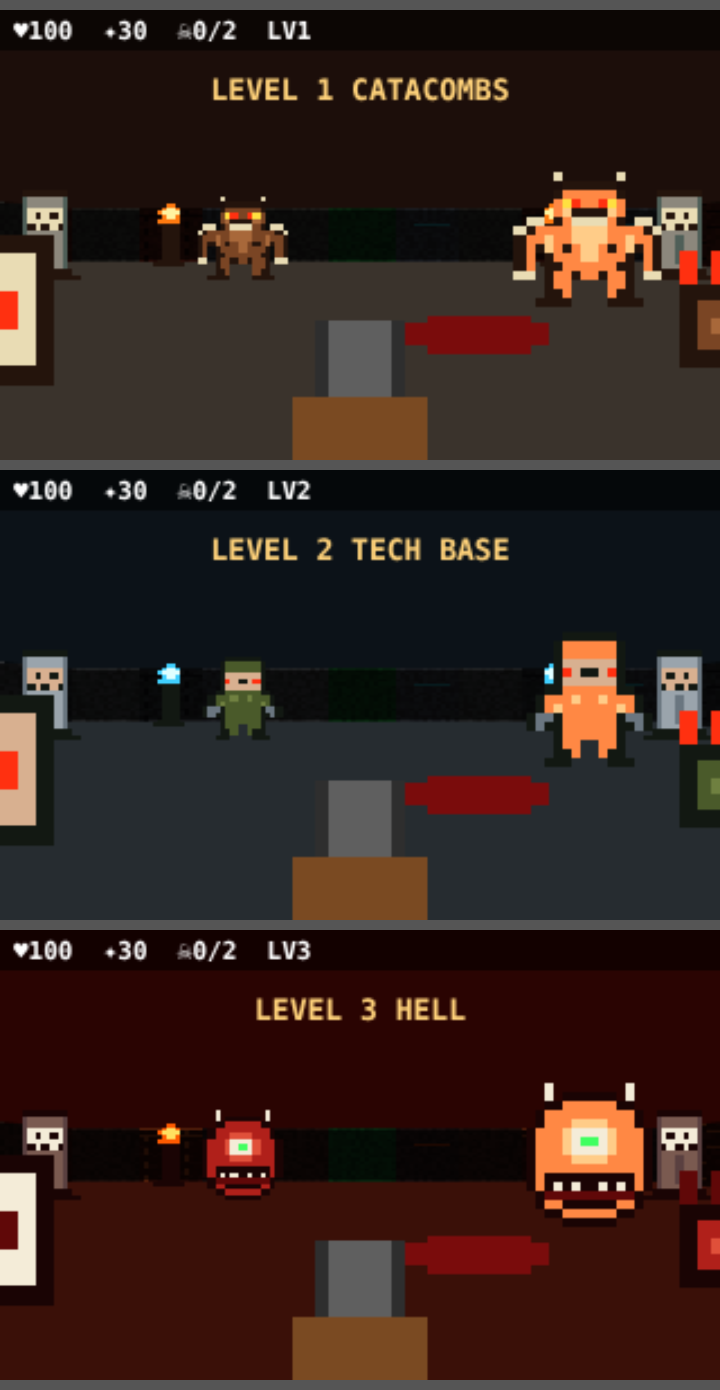
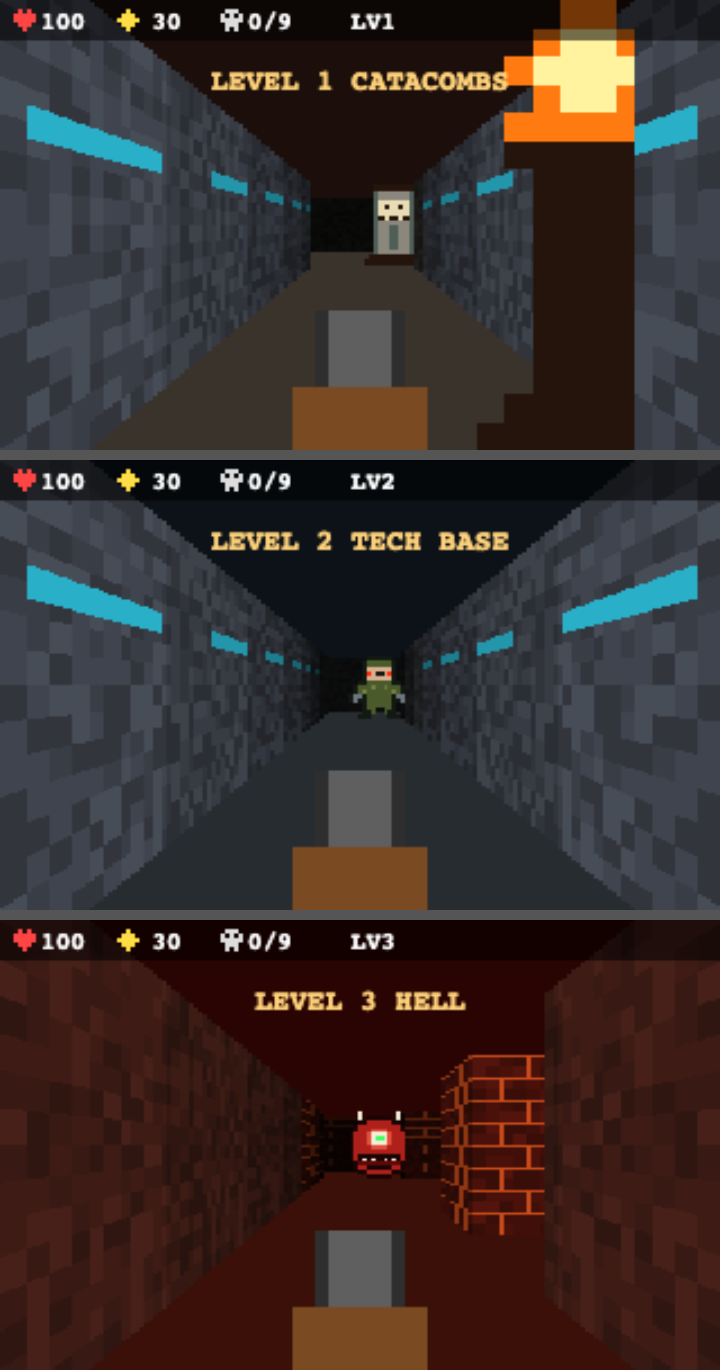
...

diff --git a/widgets/doom.html b/widgets/doom.html
@@ -1,1 +1,1 @@
-<!doctype html><html lang="en"><head><meta charset="utf-8"><style>html,body{margin:0;padding-bottom:env(safe-area-inset-bottom);background:#1a0d08;color:#fff;font-family:system-ui,sans-serif;user-select:none}#c{display:block;width:100%;background:#000;touch-action:none}#k{margin:0;width:100%;border-collapse:separate;border-spacing:6px;background:#1a0d08;padding-left:16px;box-sizing:border-box;touch-action:none}#k td{width:62px;height:76px;padding:0;border:0;background:#3b2a20;color:#e8c9a8;text-align:center;vertical-align:middle;font-size:32px;font-weight:bold;border-radius:14px}#k td.e{background:none}#k td.f{background:#8a1c10;color:#ffd27a;font-size:20px}#k td.on{background:#7a5a44;color:#fff}#k td.f.on{background:#d13a22}</style></head><body><canvas id="c" width="320" height="200"></canvas><table id="k"><tr><td class="e"></td><td data-k="f">▲</td><td class="e"></td><td data-k="l">⟲</td><td data-k="r">⟳</td></tr><tr><td data-k="L">◀</td><td data-k="b">▼</td><td data-k="R">▶</td><td data-k="s" class="f" colspan="2">FIRE</td></tr></table><script>var t=document.getElementById("c"),n=t.getContext("2d"),r=320,e=200,a=Math.random;function i(t,n){var r=document.createElement("canvas");return r.width=t,r.height=n,r}function f(t,n,r,e,a,i){t.fillStyle=n,t.fillRect(r,e,a,i)}var o,l,c,u,h=i(256,64),v=h.getContext("2d"),s=i(512,64),d=s.getContext("2d"),m=window.TelegramWidget;function p(t,n){f(v,n,t,0,64,64);for(var r=0;r<256;r++)f(v,"rgba(0,0,0,."+(4*a()|0)+")",t+r%16*4,4*(r>>4),4,4)}function g(t,n,r){for(var e=0;n&&e<16;e++){var a=n.substr(8*e,8);a+=a.split("").reverse().join("");for(var i=0;i<16;){for(var o=a[i],c=i;a[c]==o;)c++;"."!=o&&f(d,r&&r[o]||"#"+l.substr(6*(o.charCodeAt(0)-97),6),t+4*i,4*e,4*(c-i),4),i=c}}}function y(t){o=(t||"").split("|"),l=o[0],c=(o[7]||"").split(",").map(function(t){return"#"+t}),u=(o[8]||"2,1,6").split(",").map(Number),p(0,c[2]);for(var n=0;n<8;n++){f(v,c[3],0,8*n,64,1);for(var r=0;r<4;r++)f(v,c[3],(16*r+n%2*8)%64,8*n,1,8)}p(64,c[4]),f(v,c[5],84,18,36,4),p(128,c[6]),p(192,c[7]),d.clearRect(0,0,512,64),g(0,o[1]),g(64,o[1],{b:"#f84",c:"#fc8"}),f(d,"#7a0c0c",140,56,40,6),f(d,"#7a0c0c",146,54,28,10),g(192,o[5]),g(256,o[6]),g(320,o[2]),g(384,o[3]),g(448,o[4])}var b,x,M,E,I,w,A,L,S,R,D,T,k,q,C=1,O=[],B={},F=0,N="",Y=0,P=0,V=0,X=0;function j(){x=Math.min(11+2*C,25),b=[];for(var t=0;t<x*x;t++)b[t]=1+(t%x/6+t/x/6|0)%3;var n=[[1,1]];for(b[x+1]=0;n.length;){var r=n[n.length-1],e=[[2,0],[-2,0],[0,2],[0,-2]].filter(function(t){var n=r[0]+t[0],e=r[1]+t[1];return n>0&&e>0&&n<x-1&&e<x-1&&b[e*x+n]});if(e.length){var i=e[a()*e.length|0];b[(r[1]+i[1]/2)*x+r[0]+i[0]/2]=0,b[(r[1]+i[1])*x+r[0]+i[0]]=0,n.push([r[0]+i[0],r[1]+i[1]])}else n.pop()}for(t=0;t<x*x/10;t++){var f=1+(a()*(x-2)|0),l=1+(a()*(x-2)|0);f%2!=l%2&&(b[l*x+f]=0)}var c=[];for(t=0;t<2+C/2;t++){f=4+2*(a()*(x-7)/2|0),l=4+2*(a()*(x-7)/2|0),c.push([f,l]);for(var h=0;h<9;h++)b[(l-1+h/3|0)*x+f-1+h%3]=0}var v,s=[1,-1,x,-x],d=[],m=[x+1],p=x+1;for(d[x+1]=0;m.length;)r=m.shift(),p=r,s.forEach(function(t){b[r+t]||null!=d[r+t]||(d[r+t]=d[r]+1,m.push(r+t))});for(s.some(function(t){if(b[p+t])return b[p+t]=4,1}),M=E=1.5,I=1,w=0,A=0,L=.66,k=[],T=3+2*C,t=0;t<T+4;t++){do{r=a()*x*x|0}while(b[r]||d[r]<4);k.push({x:r%x+.5,y:.5+(r/x|0),t:t<T?0:t<T+2?3:4,h:u[0]+C/3|0,cd:0})}function g(t,n,r,e){k.push({x:t%x+.5+n,y:.5+(t/x|0)+r,t:e})}for(c.forEach(function(t){for(var n=0;n<4;n++){var r=1&n?1:-1,e=2&n?1:-1;g((t[1]+e)*x+t[0]+r,.35*r,.35*e,7)}}),t=0;t<x*x;t++)if(!b[t]&&t!=p&&t!=x+1){var y=s.filter(function(n){return b[t+n]}),S=a(),R=y[0];y.length>2?S<.6&&g(t,0,0,5):y.length&&S<.15&&g(t,.42*((1==R)-(-1==R)),.42*((R==x)-(R==-x)),6)}D=0,v="LEVEL "+C+" "+(o[9]||""),N=v,Y=2.5}function G(t,n){return b[(0|n)*x+(0|t)]}function U(t,n){return G(t,n)||k.some(function(r){return(5==r.t||7==r.t)&&Math.abs(r.x-t)<.3&&Math.abs(r.y-n)<.3})}function W(){if(!(F>2)){if(1!=F)return C=1,S=100,R=30,y(m&&m.publicData),j(),void(F=1);if(!(R<=0)){R--,P=.12;var t=null;k.forEach(function(n){!n.t&&n.h>0&&n.ty>0&&Math.abs(n.sx-80)<n.w/4&&n.ty<O[80]&&(!t||n.ty<t.ty)&&(t=n)}),t&&(t.h--,t.fr=.2,t.h<=0&&D++)}}}var z=document.getElementById("k"),H=[].slice.call(z.querySelectorAll("td[data-k]")),J=[],K={},Q=0;function Z(t){for(var n=0;n<J.length;n++){var r=J[n];if(t.clientX>=r[0]&&t.clientX<r[2]&&t.clientY>=r[1]&&t.clientY<r[3])return r[4]}return""}function $(){var t={};for(var n in K)K[n]&&(t[K[n]]=1);t.s&&!B.s&&Q<=0&&(W(),Q=.3),B=t,H.forEach(function(t){var n=t.getAttribute("data-k");t.className=("s"==n?"f":"")+(B[n]?" on":"")})}z.addEventListener("pointerdown",function(t){J=H.map(function(t){var n=t.getBoundingClientRect();return[n.left,n.top,n.right,n.bottom,t.getAttribute("data-k")]}),K[t.pointerId]=Z(t),$()}),document.addEventListener("pointermove",function(t){if(t.pointerId in K){var n=Z(t);n!=K[t.pointerId]&&(K[t.pointerId]=n,$())}}),["pointerup","pointercancel"].forEach(function(t){document.addEventListener(t,function(t){delete K[t.pointerId],$()})}),t.addEventListener("click",W),y(m&&m.publicData),j(),F=Y=0,requestAnimationFrame(function t(i){var o=Math.min(.05,(i-(q||i))/1e3);q=i,1==F&&function(t){var n=((B.f?1:0)-(B.b?1:0))*t*3,r=((B.R?1:0)-(B.L?1:0))*t*2.5,e=((B.r?1:0)-(B.l?1:0))*t*2.4;if(e){var i=Math.cos(e),f=Math.sin(e),o=I;I=I*i-w*f,w=o*f+w*i,o=A,A=A*i-L*f,L=o*f+L*i}if(n||r){var l=I*n-w*r,c=w*n+I*r,h=M+l+(l>0?.25:-.25),v=E+c+(c>0?.25:-.25);if(4==G(h,E)||4==G(M,v)){C++,S=Math.min(100,S+25),F=3;var s=function(t){t&&t.result&&y(t.result),j(),F=1};return void(m&&m.request?m.request("lv:"+C).then(s,s):s())}U(h,E)||(M+=l),U(M,v)||(E+=c),X+=9*t}k.forEach(function(n){if(n.t)Math.hypot(n.x-M,n.y-E)<.6&&(3==n.t&&S<100&&(S=Math.min(100,S+30),n.t=9),4==n.t&&(R+=15,n.t=9));else if(!(n.h<=0)){n.fr-=t,n.cd-=t;var r=M-n.x,e=E-n.y,i=Math.hypot(r,e);if(n.a)if(i>.8){var f=t*(u[1]+.05*C)/i,o=n.x+r*f,l=n.y+e*f;G(o,n.y)||(n.x=o),G(n.x,l)||(n.y=l)}else n.cd<=0&&(S-=u[2]+6*a()|0,n.cd=.9,V=.3,n.fr=.25,S<=0&&(S=0,F=2))}}),Q-=t,B.s&&Q<=0&&(W(),Q=.3),P-=t,V-=t,Y-=t}(o),function(){n.imageSmoothingEnabled=!1,f(n,c[0],0,0,r,100),f(n,c[1],0,100,r,100);for(var t=0;t<160;t++){for(var a,i=2*t/160-1,o=I+A*i,l=w+L*i,u=0|M,v=0|E,d=Math.abs(1/o),m=Math.abs(1/l),p=o<0?-1:1,g=l<0?-1:1,y=(o<0?M-u:u+1-M)*d,q=(l<0?E-v:v+1-E)*m,B=0;!B;)y<q?(y+=d,u+=p,a=0):(q+=m,v+=g,a=1),B=b[v*x+u];var j=a?q-m:y-d,G=a?M+j*o:E+j*l,U=64*(G-Math.floor(G))|0,W=e/j;O[t]=j,n.drawImage(h,64*(B-1)+U,0,1,64,2*t,(e-W)/2,2,W),n.fillStyle="rgba(0,0,0,"+Math.min(.88,j/9+.18*a)+")",n.fillRect(2*t,(e-W)/2,2,W)}var z=1/(A*w-I*L);k.forEach(function(t){var n=t.x-M,r=t.y-E;t.tx=z*(w*n-I*r),t.ty=z*(-L*n+A*r),t.d=n*n+r*r}),k.slice().sort(function(t,n){return n.d-t.d}).forEach(function(t){if(!(9==t.t||t.ty<.2)){var r=e/t.ty,a=r/2,i=80*(1+t.tx/t.ty);t.sx=i,t.w=a;for(var f=t.t?t.t:t.h<=0?2:t.fr>0?1:0,o=Math.max(0,i-a/2|0);o<Math.min(160,i+a/2);o++)t.ty<O[o]&&(t.a=t.a||t.ty<9,n.drawImage(s,64*f+(64*(o-i+a/2)/a|0),0,1,64,2*o,(e-r)/2,2,r))}});var H=5*Math.sin(X),J=140+H,K=138+Math.abs(H)+(P>0?8:0);P>0&&(n.fillStyle="#ffd23f",n.beginPath(),n.arc(160+H,K-6,20,0,7),n.fill()),f(n,"#2e2e2e",J,K,40,62),f(n,"#5f5f5f",J+6,K,28,52),f(n,"#7a4a22",J-10,K+34,60,28),V>0&&(n.fillStyle="rgba(200,0,0,"+V+")",n.fillRect(0,0,r,e)),F&&(f(n,"rgba(0,0,0,.55)",0,0,r,18),n.fillStyle=S>30?"#fff":"#f55",n.font="bold 11px monospace",n.textAlign="left",n.fillText("♥"+S+"  ✦"+R+"  ☠"+D+"/"+T+"  LV"+C,6,13)),n.textAlign="center",Y>0&&(n.fillStyle="#ffd27a",n.font="bold 13px monospace",n.fillText(N,160,40)),1!=F&&(f(n,"rgba(0,0,0,.7)",0,0,r,e),n.fillStyle=F?"#f33":"#e8c9a8",n.font="bold 26px monospace",n.fillText(F>2?"LOADING":F?"YOU DIED":"TIPO DOOM",160,92),n.fillText(F>2?"":"press FIRE",160,120))}(),requestAnimationFrame(t)});</script></body></html>
+<!doctype html><html lang="en"><head><meta charset="utf-8"><style>html,body{margin:0;padding-bottom:env(safe-area-inset-bottom);background:#1a0d08;color:#fff;font-family:system-ui,sans-serif;user-select:none}#c{display:block;width:100%;background:#000;touch-action:none}#k{margin:0;width:100%;border-collapse:separate;border-spacing:6px;background:#1a0d08;padding-left:16px;box-sizing:border-box;touch-action:none}#k td{width:62px;height:76px;padding:0;border:0;background:#3b2a20;color:#e8c9a8;text-align:center;vertical-align:middle;font-size:32px;font-weight:bold;border-radius:14px}#k td.e{background:none}#k td.f{background:#8a1c10;color:#ffd27a;font-size:20px}#k td.on{background:#7a5a44;color:#fff}#k td.f.on{background:#d13a22}</style></head><body><canvas id="c" width="320" height="200"></canvas><table id="k"><tr><td class="e"></td><td data-k="f">▲</td><td class="e"></td><td data-k="l">⟲</td><td data-k="r">⟳</td></tr><tr><td data-k="L">◀</td><td data-k="b">▼</td><td data-k="R">▶</td><td data-k="s" class="f" colspan="2">FIRE</td></tr></table><script>var t=document.getElementById("c"),n=t.getContext("2d"),r=320,e=200,a=Math.random;function f(t,n){var r=document.createElement("canvas");return r.width=t,r.height=n,r}function o(t,n,r,e,a,f){t.fillStyle=n,t.fillRect(r,e,a,f)}var i,c,l,u,h=f(256,64),d=h.getContext("2d"),v=f(256,576),s=v.getContext("2d"),m=f(512,64),p=m.getContext("2d"),g=window.TelegramWidget;function y(t,n){o(d,n,t,0,64,64);for(var r=0;r<256;r++)o(d,"rgba(0,0,0,."+(4*a()|0)+")",t+r%16*4,4*(r>>4),4,4)}function b(t,n,r){for(var e=0;n&&e<16;e++){var a=n.substr(8*e,8);a+=a.split("").reverse().join("");for(var f=0;f<16;){for(var i=a[f],l=f;a[l]==i;)l++;"."!=i&&o(p,r&&r[i]||"#"+c.substr(6*(i.charCodeAt(0)-97),6),t+4*f,4*e,4*(l-f),4),f=l}}}function x(t){i=(t||"").split("|"),c=i[0],l=(i[7]||"").split(",").map(function(t){return"#"+t}),u=(i[8]||"").split(",").map(Number),y(0,l[2]);for(var n=0;n<8;n++){o(d,l[3],0,8*n,64,1);for(var r=0;r<4;r++)o(d,l[3],(16*r+n%2*8)%64,8*n,1,8)}for(y(64,l[4]),o(d,l[5],84,18,36,4),y(128,l[6]),y(192,l[7]),n=0;n<9;n++)s.drawImage(h,0,64*n),o(s,"rgba(0,0,0,."+11*n+")",0,64*n,256,64);p.clearRect(0,0,512,64),[4685802,4685252,10976942].forEach(function(t,n){for(var r=0;r<25;r++)t>>r&1&&o(p,["#f44","#fd4","#ddd"][n],128+10*n+r%5*2,2*(r/5|0),2,2)}),b(0,i[1]),b(64,i[1],{b:"#f84",c:"#fc8"}),o(p,"#7a0c0c",140,56,40,6),o(p,"#7a0c0c",146,54,28,10),b(192,i[5]),b(256,i[6]),b(320,i[2]),b(384,i[3]),b(448,i[4])}var E,M,I,w,L,A,S,C,D,T,k,q,O,R,B=1,F=[],N={},Y=0,P="",V=0,X=0,j=0,G=0;function U(){M=Math.min(11+2*B,25),E=[];for(var t=0;t<M*M;t++)E[t]=1+(t%M/6+t/M/6|0)%3;var n=[[1,1]];for(E[M+1]=0;n.length;){var r=n[n.length-1],e=[[2,0],[-2,0],[0,2],[0,-2]].filter(function(t){var n=r[0]+t[0],e=r[1]+t[1];return n>0&&e>0&&n<M-1&&e<M-1&&E[e*M+n]});if(e.length){var f=e[a()*e.length|0];E[(r[1]+f[1]/2)*M+r[0]+f[0]/2]=0,E[(r[1]+f[1])*M+r[0]+f[0]]=0,n.push([r[0]+f[0],r[1]+f[1]])}else n.pop()}for(t=0;t<M*M/10;t++){var o=1+(a()*(M-2)|0),c=1+(a()*(M-2)|0);o%2!=c%2&&(E[c*M+o]=0)}var l=[];for(t=0;t<2+B/2;t++){o=4+2*(a()*(M-7)/2|0),c=4+2*(a()*(M-7)/2|0),l.push([o,c]);for(var h=0;h<9;h++)E[(c-1+h/3|0)*M+o-1+h%3]=0}var d,v=[1,-1,M,-M],s=[],m=[M+1],p=M+1;for(s[M+1]=0;m.length;)r=m.shift(),p=r,v.forEach(function(t){E[r+t]||null!=s[r+t]||(s[r+t]=s[r]+1,m.push(r+t))});for(v.some(function(t){if(E[p+t])return E[p+t]=4,1}),I=w=1.5,L=1,A=0,S=0,C=.66,O=[],q=3+2*B,t=0;t<q+4;t++){do{r=a()*M*M|0}while(E[r]||s[r]<4);O.push({x:r%M+.5,y:.5+(r/M|0),t:t<q?0:t<q+2?3:4,h:u[0]+B/3|0,cd:0})}function g(t,n,r,e){O.push({x:t%M+.5+n,y:.5+(t/M|0)+r,t:e})}for(l.forEach(function(t){for(var n=0;n<4;n++){var r=1&n?1:-1,e=2&n?1:-1;g((t[1]+e)*M+t[0]+r,.35*r,.35*e,7)}}),t=0;t<M*M;t++)if(!E[t]&&t!=p&&t!=M+1){var y=v.filter(function(n){return E[t+n]}),b=a(),x=y[0];y.length>2?b<.6&&g(t,0,0,5):y.length&&b<.15&&g(t,.42*((1==x)-(-1==x)),.42*((x==M)-(x==-M)),6)}k=0,d="LEVEL "+B+" "+(i[9]||""),P=d,V=2.5}function W(t,n){return E[(0|n)*M+(0|t)]}function z(t,n){return W(t,n)||O.some(function(r){return(5==r.t||7==r.t)&&Math.abs(r.x-t)<.3&&Math.abs(r.y-n)<.3})}function H(){if(!(Y>2)){if(1!=Y)return B=1,D=100,T=30,x(g&&g.publicData),U(),void(Y=1);if(!(T<=0)){T--,X=.12;var t=null;O.forEach(function(n){!n.t&&n.h>0&&n.ty>0&&Math.abs(n.sx-80)<n.w/4&&n.ty<F[80]&&(!t||n.ty<t.ty)&&(t=n)}),t&&(t.h--,t.fr=.2,t.h<=0&&k++)}}}var J=document.getElementById("k"),K=[].slice.call(J.querySelectorAll("td[data-k]")),Q=[],Z={},$=0;function _(t){for(var n=0;n<Q.length;n++){var r=Q[n];if(t.clientX>=r[0]&&t.clientX<r[2]&&t.clientY>=r[1]&&t.clientY<r[3])return r[4]}return""}function tt(){var t={};for(var n in Z)Z[n]&&(t[Z[n]]=1);t.s&&!N.s&&$<=0&&(H(),$=.3),N=t,K.forEach(function(t){var n=t.getAttribute("data-k");t.className=("s"==n?"f":"")+(N[n]?" on":"")})}J.addEventListener("pointerdown",function(t){Q=K.map(function(t){var n=t.getBoundingClientRect();return[n.left,n.top,n.right,n.bottom,t.getAttribute("data-k")]}),Z[t.pointerId]=_(t),tt()}),document.addEventListener("pointermove",function(t){if(t.pointerId in Z){var n=_(t);n!=Z[t.pointerId]&&(Z[t.pointerId]=n,tt())}}),["pointerup","pointercancel"].forEach(function(t){document.addEventListener(t,function(t){delete Z[t.pointerId],tt()})}),t.addEventListener("click",H),n.imageSmoothingEnabled=!1,n.textAlign="center",x(g&&g.publicData),U(),Y=V=0,requestAnimationFrame(function t(f){if(requestAnimationFrame(t),!(f-R<15)){var i=Math.min(.05,(f-(R||f))/1e3);R=f,1==Y&&function(t){var n=((N.f?1:0)-(N.b?1:0))*t*3,r=((N.R?1:0)-(N.L?1:0))*t*2.5,e=((N.r?1:0)-(N.l?1:0))*t*2.4;if(e){var f=Math.cos(e),o=Math.sin(e),i=L;L=L*f-A*o,A=i*o+A*f,i=S,S=S*f-C*o,C=i*o+C*f}if(n||r){var c=L*n-A*r,l=A*n+L*r,h=I+c+(c>0?.25:-.25),d=w+l+(l>0?.25:-.25);if(4==W(h,w)||4==W(I,d)){B++,D=Math.min(100,D+25),Y=3;var v=function(t){t&&t.result&&x(t.result),U(),Y=1};return void(g&&g.request?g.request("lv:"+B).then(v,v):v())}z(h,w)||(I+=c),z(I,d)||(w+=l),G+=9*t}O.forEach(function(n){if(n.t)Math.hypot(n.x-I,n.y-w)<.6&&(3==n.t&&D<100&&(D=Math.min(100,D+30),n.t=9),4==n.t&&(T+=15,n.t=9));else if(!(n.h<=0)){n.fr-=t,n.cd-=t;var r=I-n.x,e=w-n.y,f=Math.hypot(r,e);if(n.a)if(f>.8){var o=t*(u[1]+.05*B)/f,i=n.x+r*o,c=n.y+e*o;W(i,n.y)||(n.x=i),W(n.x,c)||(n.y=c)}else n.cd<=0&&(D-=u[2]+6*a()|0,n.cd=.9,j=.3,n.fr=.25,D<=0&&(D=0,Y=2))}}),$-=t,N.s&&$<=0&&(H(),$=.3),X-=t,j-=t,V-=t}(i),function(){o(n,l[0],0,0,r,100),o(n,l[1],0,100,r,100);for(var t=0;t<160;t++){for(var a,f=2*t/160-1,i=L+S*f,c=A+C*f,u=0|I,h=0|w,d=Math.abs(1/i),s=Math.abs(1/c),p=i<0?-1:1,g=c<0?-1:1,y=(i<0?I-u:u+1-I)*d,b=(c<0?w-h:h+1-w)*s,x=0;!x;)y<b?(y+=d,u+=p,a=0):(b+=s,h+=g,a=1),x=E[h*M+u];var R=a?b-s:y-d,N=a?I+R*i:w+R*c,U=64*(N-Math.floor(N))|0,W=e/R;F[t]=R,n.drawImage(v,64*(x-1)+U,64*Math.min(8,R+1.6*a|0),1,64,2*t,(e-W)/2,2,W)}var z=1/(S*A-L*C);O.forEach(function(t){var n=t.x-I,r=t.y-w;t.tx=z*(A*n-L*r),t.ty=z*(-C*n+S*r),t.d=n*n+r*r}),O.slice().sort(function(t,n){return n.d-t.d}).forEach(function(t){if(!(9==t.t||t.ty<.2)){var r=e/t.ty,a=r/2,f=80*(1+t.tx/t.ty);t.sx=f,t.w=a;for(var o=t.t?t.t:t.h<=0?2:t.fr>0?1:0,i=Math.min(160,f+a/2),c=-1,l=Math.max(0,-~(f-a/2));l<=i;l++)l<i&&t.ty<F[l]?(c<0&&(c=l),t.ty<9&&(t.a=1)):c>=0&&(n.drawImage(m,64*o+64*(c-f+a/2)/a,0,64*(l-c)/a,64,2*c,(e-r)/2,2*(l-c),r),c=-1)}});var H=5*Math.sin(G),J=140+H,K=138+Math.abs(H)+(X>0?8:0);X>0&&(n.fillStyle="#ffd23f",n.beginPath(),n.arc(160+H,K-6,20,0,7),n.fill()),o(n,"#2e2e2e",J,K,40,62),o(n,"#5f5f5f",J+6,K,28,52),o(n,"#7a4a22",J-10,K+34,60,28),j>0&&o(n,"rgba(200,0,0,"+j+")",0,0,r,e),Y&&(o(n,"rgba(0,0,0,.55)",0,0,r,18),n.font="bold 11px monospace",n.fillStyle=D>30?"#fff":"#f55",[D,T,k+"/"+q,"LV"+B].forEach(function(t,r){r<3&&n.drawImage(m,128+10*r,0,10,10,6+46*r,4,10,10),n.fillText(t,28+46*r,13)})),V>0&&(n.fillStyle="#ffd27a",n.font="bold 13px monospace",n.fillText(P,160,40)),1!=Y&&(o(n,"rgba(0,0,0,.7)",0,0,r,e),n.fillStyle=Y?"#f33":"#e8c9a8",n.font="bold 26px monospace",n.fillText(Y>2?"LOADING":Y?"YOU DIED":"TIPO DOOM",160,92),n.fillText(Y>2?"":"press FIRE",160,120))}()}});</script></body></html>

diff --git a/src/doom.html b/src/doom.html
@@ -18,14 +18,18 @@ var C=document.getElementById('c'),X=C.getContext('2d'),W=320,H=200,N=160,rnd=Ma
 function mk(w,h){var c=document.createElement('canvas');c.width=w;c.height=h;return c}
 function R(g,c,x,y,w,h){g.fillStyle=c;g.fillRect(x,y,w,h)}
 // ---- assets: a level pack from the bot (themes.py): palette|monster|barrel|torch|column|medkit|ammo|colours|stats|name ----
-var T=mk(256,64),t=T.getContext('2d'),SP=mk(512,64),s=SP.getContext('2d'),TW=window.TelegramWidget,A,PL,WC,ST;
+var G=mk(256,64),t=G.getContext('2d'),T=mk(256,576),u=T.getContext('2d'),SP=mk(512,64),s=SP.getContext('2d'),TW=window.TelegramWidget,A,PL,WC,ST;
 function noise(o,b){R(t,b,o,0,64,64);for(var i=0;i<256;i++)R(t,'rgba(0,0,0,.'+(rnd()*4|0)+')',o+i%16*4,(i>>4)*4,4,4)}
 function pix(o,d,h){for(var y=0;d&&y<16;y++){var r=d.substr(y*8,8);r+=r.split('').reverse().join('');
   for(var x=0;x<16;){var c=r[x],n=x;while(r[n]==c)n++;if(c!='.')R(s,h&&h[c]||'#'+PL.substr((c.charCodeAt(0)-97)*6,6),o+x*4,y*4,(n-x)*4,4);x=n}}}
-function load(p){A=(p||'').split('|');PL=A[0];WC=(A[7]||'').split(',').map(function(c){return'#'+c});ST=(A[8]||'2,1,6').split(',').map(Number);
+function load(p){A=(p||'').split('|');PL=A[0];WC=(A[7]||'').split(',').map(function(c){return'#'+c});ST=(A[8]||'').split(',').map(Number);
   noise(0,WC[2]);for(var y=0;y<8;y++){R(t,WC[3],0,y*8,64,1);for(var x=0;x<4;x++)R(t,WC[3],(x*16+y%2*8)%64,y*8,1,8)}
   noise(64,WC[4]);R(t,WC[5],84,18,36,4);noise(128,WC[6]);noise(192,WC[7]);
-  s.clearRect(0,0,512,64);pix(0,A[1]);pix(64,A[1],{b:'#f84',c:'#fc8'});
+  // fog baked into 9 darker copies of the textures: one drawImage per wall column instead of three commands
+  for(y=0;y<9;y++){u.drawImage(G,0,y*64);R(u,'rgba(0,0,0,.'+y*11+')',0,y*64,256,64)}
+  s.clearRect(0,0,512,64);
+  // HUD icons (5x5 bitmaps) in the empty top of the blood frame: glyphs like ♥ turn into emoji on Android
+  [4685802,4685252,10976942].forEach(function(n,j){for(var b=0;b<25;b++)n>>b&1&&R(s,['#f44','#fd4','#ddd'][j],128+j*10+b%5*2,(b/5|0)*2,2,2)});pix(0,A[1]);pix(64,A[1],{b:'#f84',c:'#fc8'});
   R(s,'#7a0c0c',140,56,40,6);R(s,'#7a0c0c',146,54,28,10);
   pix(192,A[5]);pix(256,A[6]);pix(320,A[2]);pix(384,A[3]);pix(448,A[4])}
 // ---- world ----
@@ -65,30 +69,32 @@ function step(dt){
       else if(e.cd<=0){hp-=ST[2]+rnd()*6|0;e.cd=.9;hurt=.3;e.fr=.25;if(hp<=0){hp=0;st=2}}}});
   fc-=dt;if(k.s&&fc<=0){shoot();fc=.3}
   fl-=dt;hurt-=dt;mt-=dt}
-function draw(){X.imageSmoothingEnabled=false;
+function draw(){
   R(X,WC[0],0,0,W,H/2);R(X,WC[1],0,H/2,W,H/2);
   for(var x=0;x<N;x++){var cx=2*x/N-1,rx=dx+plx*cx,ry=dy+ply*cx,mx=px|0,my=py|0,ax=Math.abs(1/rx),ay=Math.abs(1/ry),sx=rx<0?-1:1,sy=ry<0?-1:1,
     sdx=(rx<0?px-mx:mx+1-px)*ax,sdy=(ry<0?py-my:my+1-py)*ay,side,h=0;
     while(!h){if(sdx<sdy){sdx+=ax;mx+=sx;side=0}else{sdy+=ay;my+=sy;side=1}h=M[my*S+mx]}
     var pd=side?sdy-ay:sdx-ax,wx=side?px+pd*rx:py+pd*ry,tx=(wx-Math.floor(wx))*64|0,lh=H/pd;Z[x]=pd;
-    X.drawImage(T,(h-1)*64+tx,0,1,64,x*2,(H-lh)/2,2,lh);
-    X.fillStyle='rgba(0,0,0,'+Math.min(.88,pd/9+side*.18)+')';X.fillRect(x*2,(H-lh)/2,2,lh)}
+    X.drawImage(T,(h-1)*64+tx,Math.min(8,pd+side*1.6|0)*64,1,64,x*2,(H-lh)/2,2,lh)}
   var iv=1/(plx*dy-dx*ply);
   en.forEach(function(e){var a=e.x-px,b=e.y-py;e.tx=iv*(dy*a-dx*b);e.ty=iv*(-ply*a+plx*b);e.d=a*a+b*b});
   en.slice().sort(function(a,b){return b.d-a.d}).forEach(function(e){if(e.t==9||e.ty<.2)return;
     var h=H/e.ty,w=h/2,c=N/2*(1+e.tx/e.ty);e.sx=c;e.w=w;var f=e.t?e.t:e.h<=0?2:e.fr>0?1:0;
-    for(var s=Math.max(0,c-w/2|0);s<Math.min(N,c+w/2);s++)if(e.ty<Z[s])e.a=e.a||e.ty<9,X.drawImage(SP,f*64+((s-c+w/2)*64/w|0),0,1,64,s*2,(H-h)/2,2,h)});
+    // visible columns are drawn in runs: one drawImage per run, not per column
+    for(var z=Math.min(N,c+w/2),a=-1,s=Math.max(0,-~(c-w/2));s<=z;s++)
+      if(s<z&&e.ty<Z[s]){a<0&&(a=s);e.ty<9&&(e.a=1)}
+      else if(a>=0){X.drawImage(SP,f*64+(a-c+w/2)*64/w,0,(s-a)*64/w,64,a*2,(H-h)/2,(s-a)*2,h);a=-1}});
   var b=Math.sin(bob)*5,bx=W/2-20+b,by=H-62+Math.abs(b)+(fl>0?8:0);
   if(fl>0){X.fillStyle='#ffd23f';X.beginPath();X.arc(W/2+b,by-6,20,0,7);X.fill()}
   R(X,'#2e2e2e',bx,by,40,62);R(X,'#5f5f5f',bx+6,by,28,52);R(X,'#7a4a22',bx-10,by+34,60,28);
-  if(hurt>0){X.fillStyle='rgba(200,0,0,'+hurt+')';X.fillRect(0,0,W,H)}
-  if(st){R(X,'rgba(0,0,0,.55)',0,0,W,18);X.fillStyle=hp>30?'#fff':'#f55';X.font='bold 11px monospace';X.textAlign='left';
-  X.fillText('♥'+hp+'  ✦'+am+'  ☠'+kills+'/'+tot+'  LV'+lv,6,13)}
-  X.textAlign='center';
+  hurt>0&&R(X,'rgba(200,0,0,'+hurt+')',0,0,W,H);
+  if(st){R(X,'rgba(0,0,0,.55)',0,0,W,18);X.font='bold 11px monospace';X.fillStyle=hp>30?'#fff':'#f55';
+  [hp,am,kills+'/'+tot,'LV'+lv].forEach(function(v,j){j<3&&X.drawImage(SP,128+j*10,0,10,10,6+j*46,4,10,10);X.fillText(v,28+j*46,13)})}
   if(mt>0){X.fillStyle='#ffd27a';X.font='bold 13px monospace';X.fillText(msg,W/2,40)}
   if(st!=1){R(X,'rgba(0,0,0,.7)',0,0,W,H);X.fillStyle=st?'#f33':'#e8c9a8';X.font='bold 26px monospace';X.fillText(st>2?'LOADING':st?'YOU DIED':'TIPO DOOM',W/2,92);
     X.fillText(st>2?'':'press FIRE',W/2,120)}}
-function loop(ts){var dt=Math.min(.05,(ts-(lt||ts))/1000);lt=ts;if(st==1)step(dt);draw();requestAnimationFrame(loop)}
+// at most ~60 fps: Telegram counts 2 µs per canvas command against 100 ms a second, and 90-120 Hz screens ran out of it
+function loop(ts){requestAnimationFrame(loop);if(ts-lt<15)return;var dt=Math.min(.05,(ts-(lt||ts))/1000);lt=ts;if(st==1)step(dt);draw()}
 // ---- controls: each touch point holds whichever button is under the finger right now ----
 var K=document.getElementById('k'),bs=[].slice.call(K.querySelectorAll('td[data-k]')),rc=[],P={},fc=0;
 function measure(){rc=bs.map(function(b){var r=b.getBoundingClientRect();return[r.left,r.top,r.right,r.bottom,b.getAttribute('data-k')]})}
@@ -100,6 +106,6 @@ K.addEventListener('pointerdown',function(e){measure();P[e.pointerId]=hit(e);syn
 document.addEventListener('pointermove',function(e){if(e.pointerId in P){var h=hit(e);if(h!=P[e.pointerId]){P[e.pointerId]=h;sync()}}});
 ['pointerup','pointercancel'].forEach(function(n){document.addEventListener(n,function(e){delete P[e.pointerId];sync()})});
 C.addEventListener('click',shoot);
-load(TW&&TW.publicData);gen();st=mt=0;requestAnimationFrame(loop);
+X.imageSmoothingEnabled=false;X.textAlign='center';load(TW&&TW.publicData);gen();st=mt=0;requestAnimationFrame(loop);
 </script>
 </body></html>

diff --git a/doom_bot.py b/doom_bot.py
@@ -24,7 +24,7 @@ from pathlib import Path
 
 from aiogram import Bot, Dispatcher, Router
 from aiogram.filters import Command
-from aiogram.types import Message, WidgetQuery
+from aiogram.types import LinkPreviewOptions, Message, WidgetQuery
 
 from themes import pack
 
@@ -45,7 +45,8 @@ INTRO = (
     "◀ ▶ step sideways\n"
     "⟲ ⟳ turn\n"
     "FIRE shoot (hold for auto-fire)\n\n"
-    "Slide your finger from button to button, and use both thumbs at once.\n"
+    "Slide your finger from button to button, and use both thumbs at once.\n\n"
+    "Made by <b>Team Pixel</b> · <a href=\"https://github.com/TEAM-PIXEL-CAT/Doom-bot\">GitHub</a>\n\n"
     "Press <b>FIRE</b> to start 👇"
 )
 
@@ -54,7 +55,8 @@ router = Router()
 
 @router.message(Command("start", "doom"))
 async def doom(message: Message, bot: Bot) -> None:
-    await message.answer(INTRO, parse_mode="HTML")
+    # no link preview: it would put a GitHub card between the intro and the game
+    await message.answer(INTRO, parse_mode="HTML", link_preview_options=LinkPreviewOptions(is_disabled=True))
     # allow_queries: the widget may ask for the next level's pack
     await bot.send_widget(chat_id=message.chat.id, html=HTML, public_data=pack(1), allow_queries=True)
 

diff --git a/README.md b/README.md
@@ -1,5 +1,7 @@
 # 🔥 TIPO DOOM
 
+<p align="center"><b>by Team Pixel</b> · <a href="https://github.com/TEAM-PIXEL-CAT/Doom-bot">github.com/TEAM-PIXEL-CAT/Doom-bot</a></p>
+
 A first-person shooter that lives right inside a Telegram message. It's an HTML widget (Bot API 10.4): a canvas raycaster, pixel-art monsters and random mazes. The world changes with every level, from the catacombs to a tech base to hell, then round again, harder each time.
 
 <p align="center">
@@ -114,3 +116,7 @@ Add a dictionary to `THEMES` in `themes.py`. The widget code doesn't need any ch
 **Gestures:** a vertical drag is always taken over by chat scrolling.
 
 Spec: [TelegramMessenger/widget-sandbox](https://github.com/TelegramMessenger/widget-sandbox) (`docs/sdk-v1.md`, `docs/profile-v1.md`).
+
+---
+
+<p align="center">Made with 🔥 by <b>Team Pixel</b> · <a href="https://github.com/TEAM-PIXEL-CAT/Doom-bot">GitHub</a></p>
